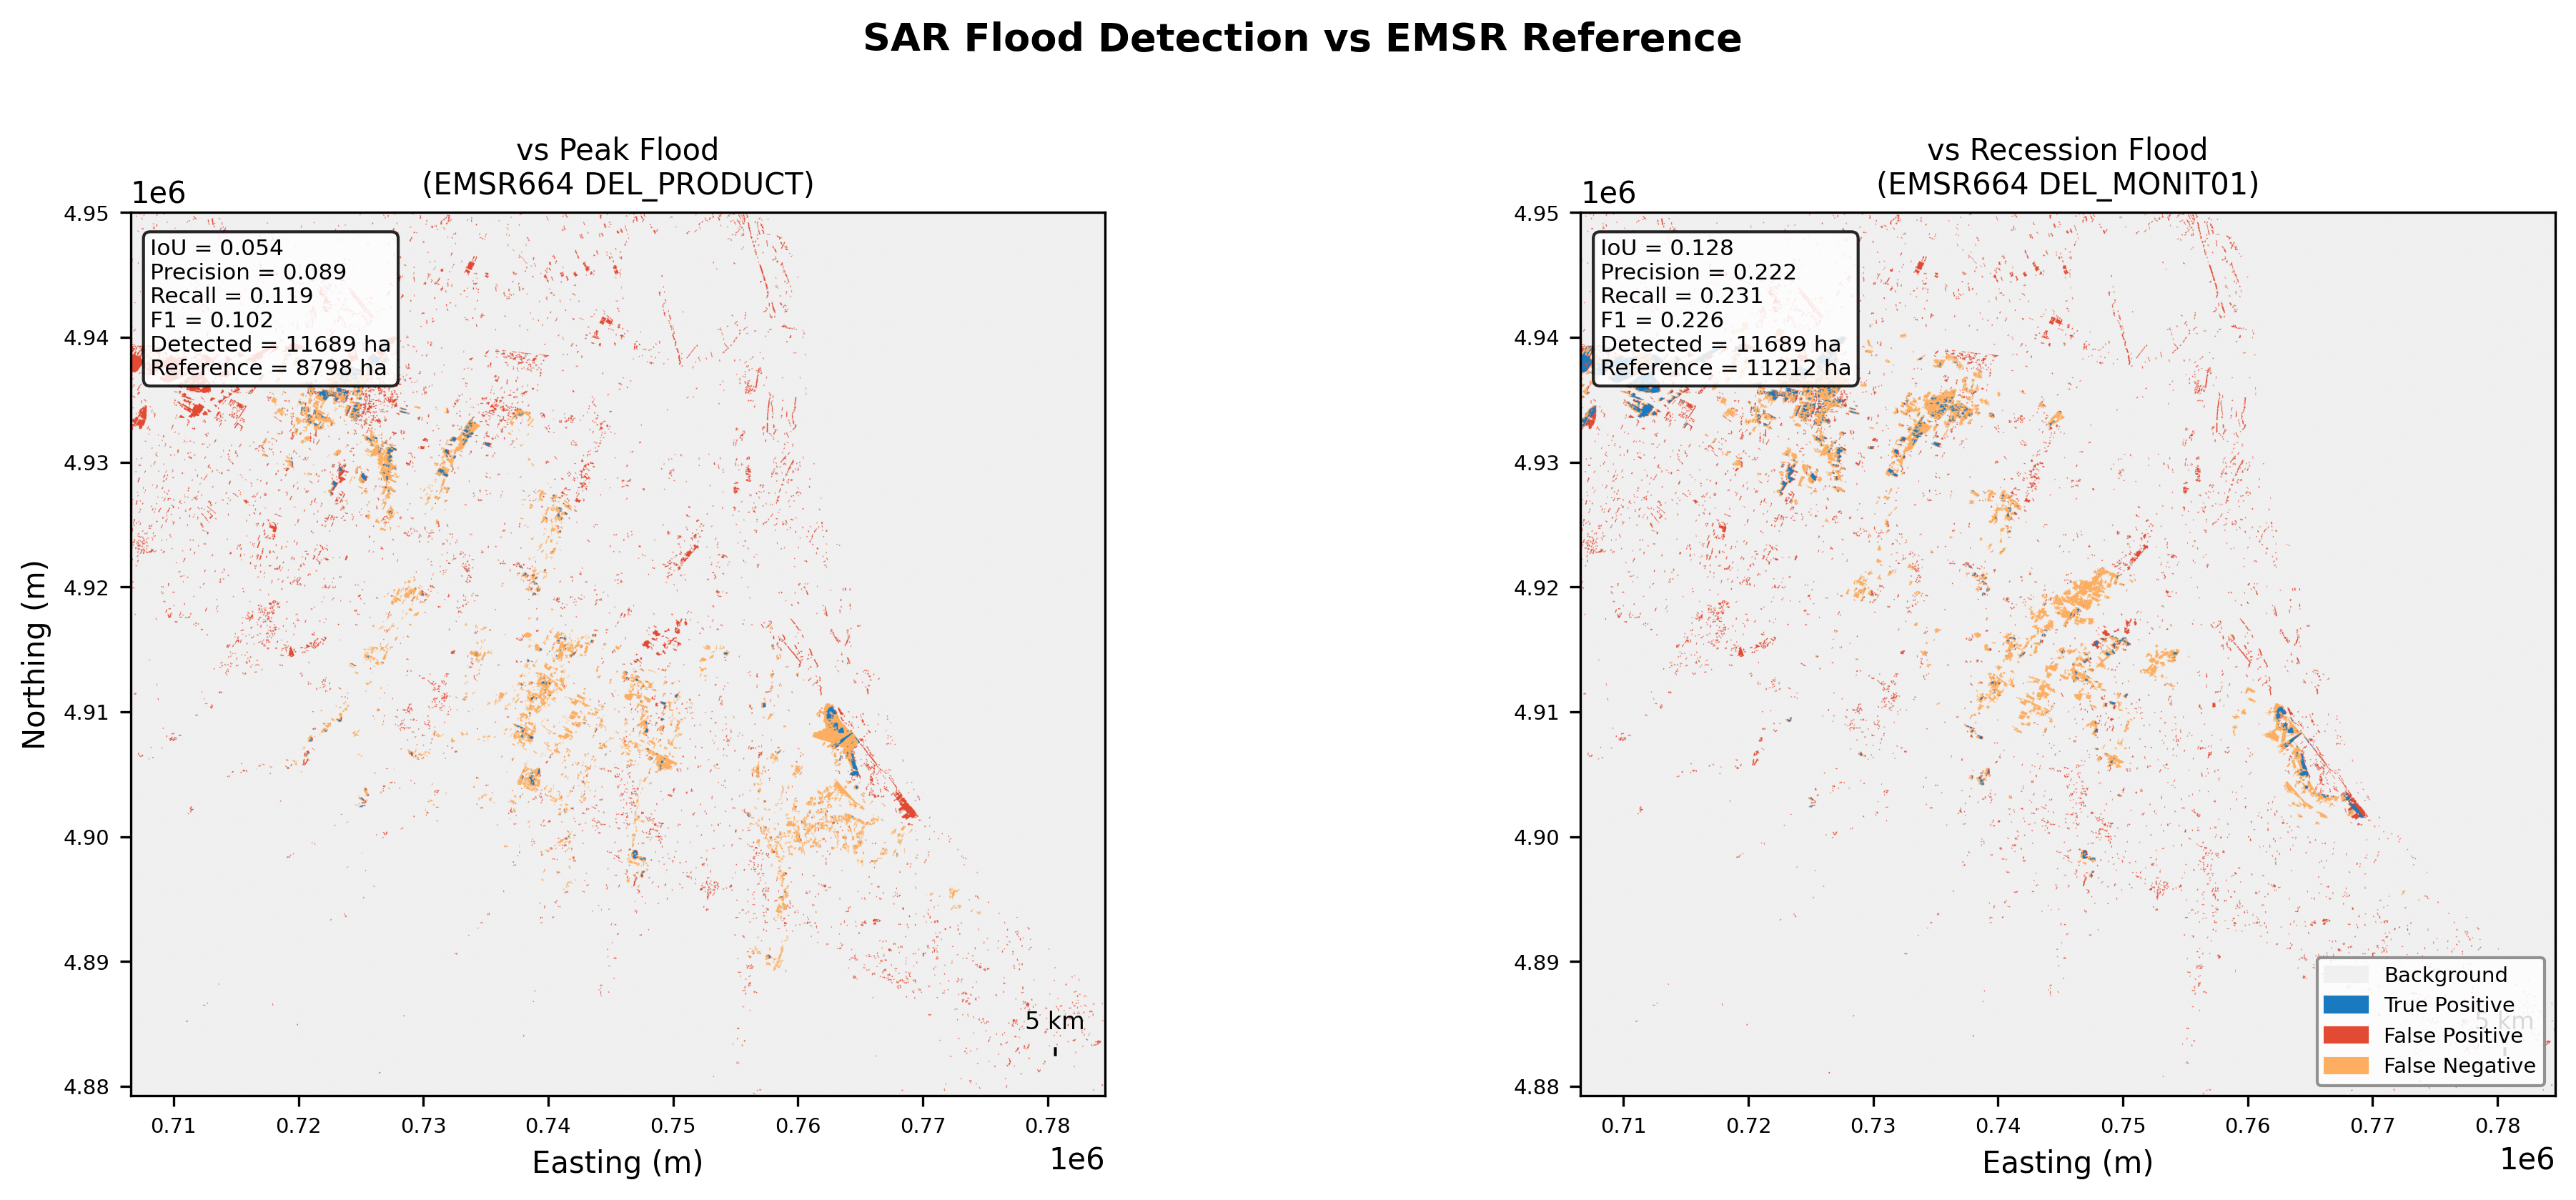
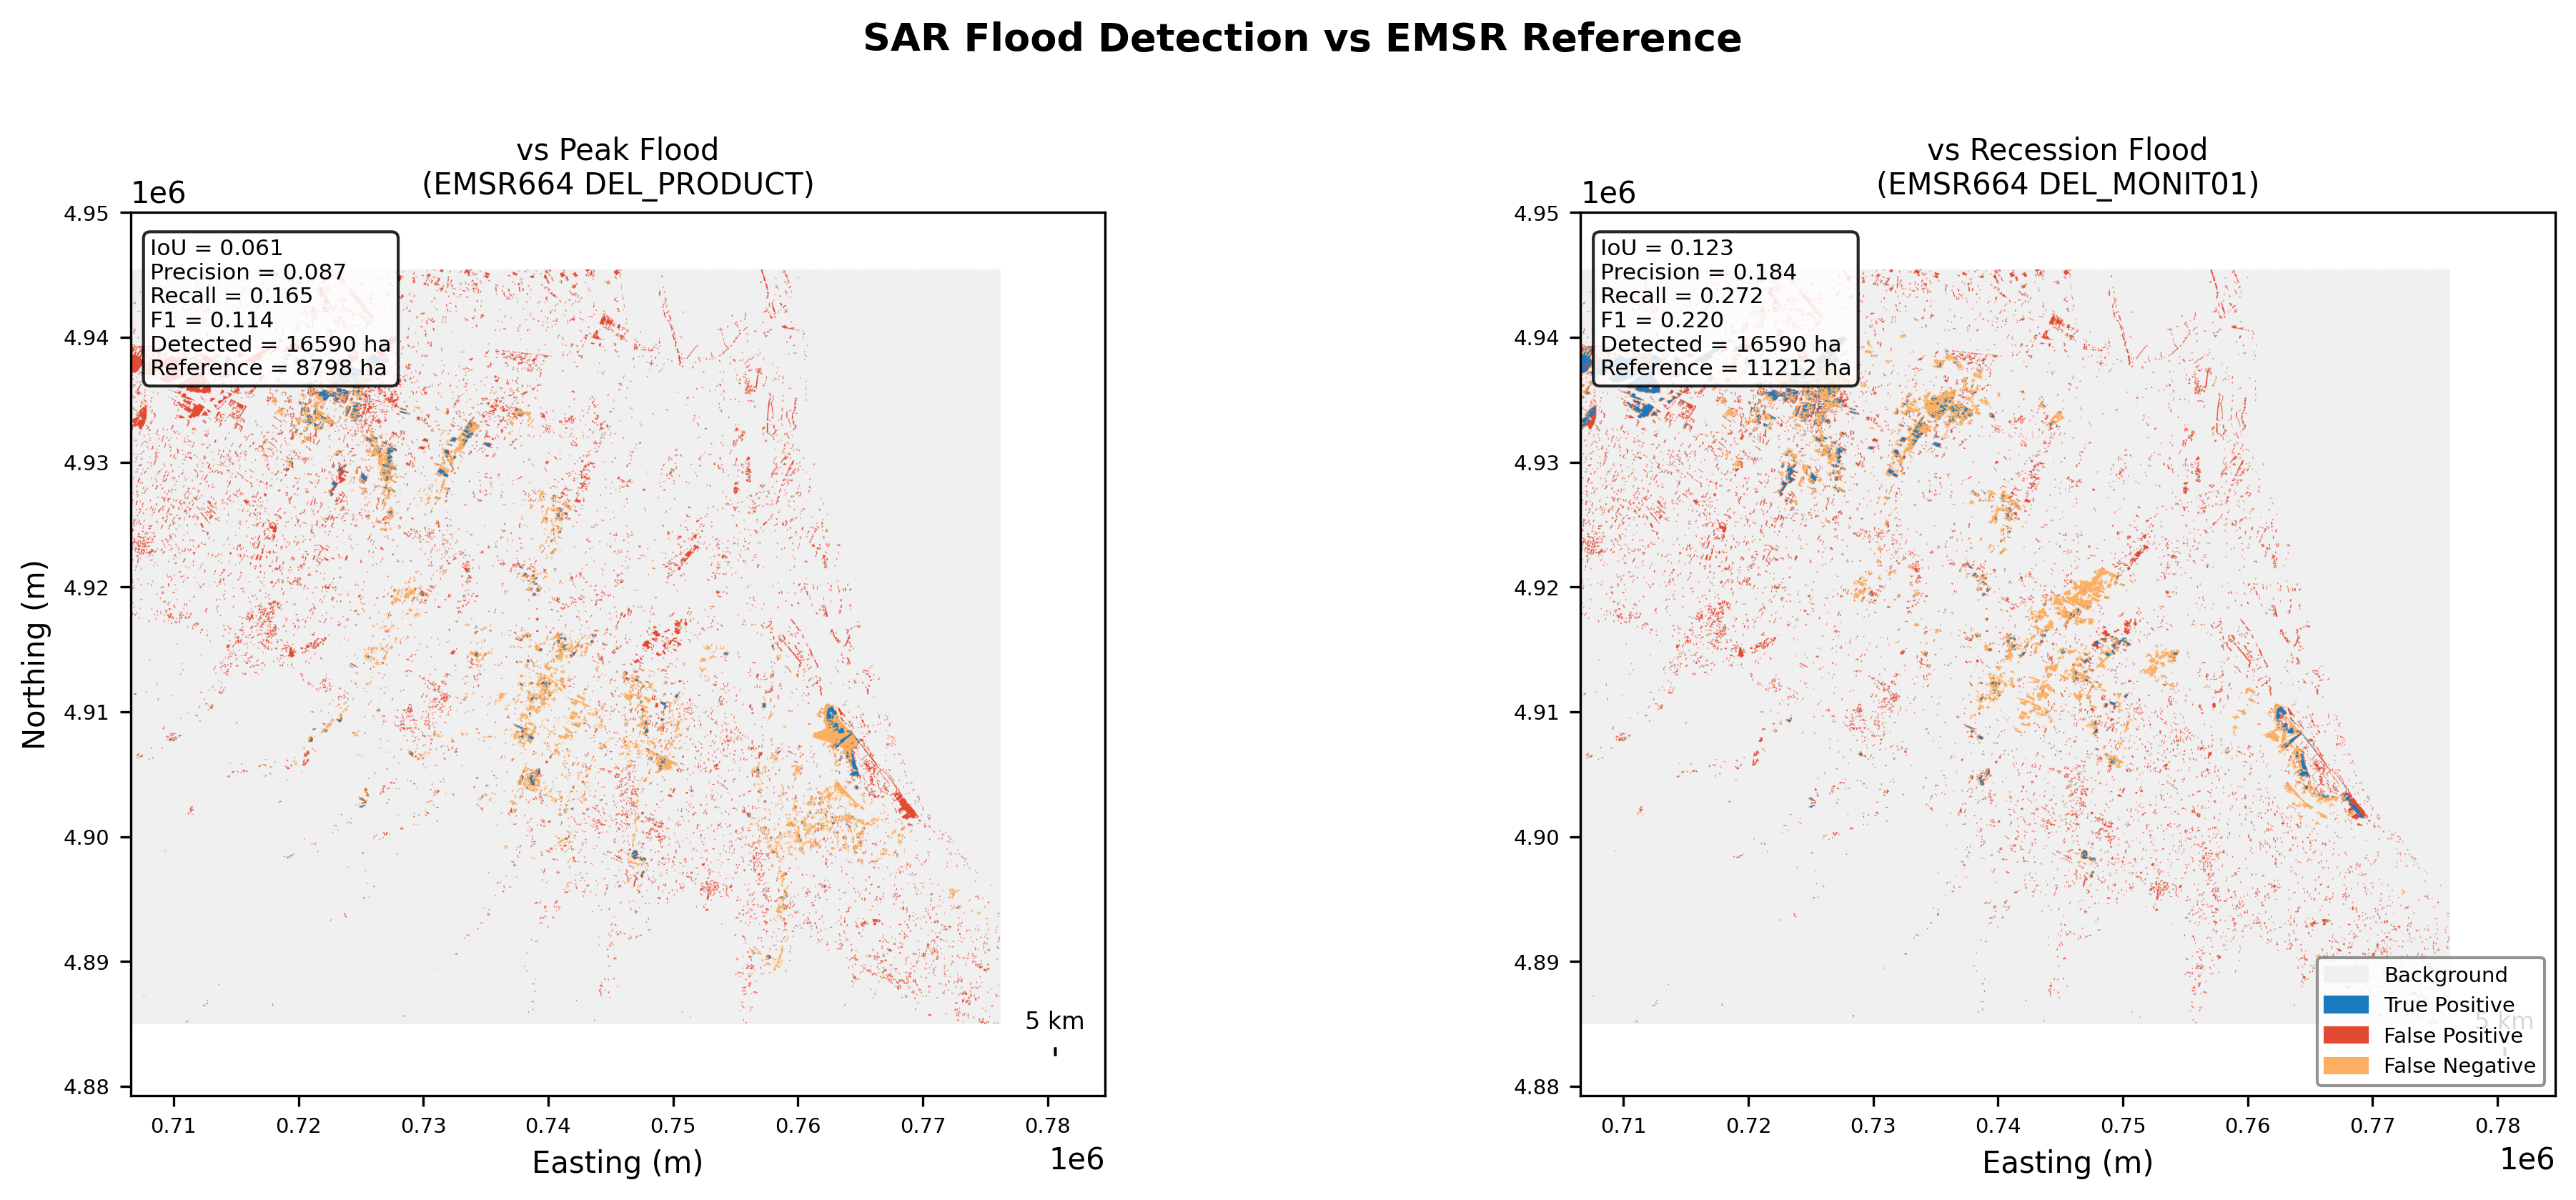
cropping down italy for more detailed study area

diff --git a/emilia_romagna/scripts/make_figures.py b/emilia_romagna/scripts/make_figures.py
@@ -169,15 +169,6 @@ def main():
         (axes[1], post_vv, post_ext, "Post-event", "22 May 2023"),
     ]:
         im = ax.imshow(data, cmap="gray", vmin=vmin, vmax=vmax, extent=ext, origin="upper")
-        # EMSR reference overlay
-        for geom in peak_gdf.geometry:
-            if geom.geom_type == "Polygon":
-                xs, ys = geom.exterior.xy
-                ax.plot(xs, ys, color="#FF4444", lw=0.5, alpha=0.8)
-            elif geom.geom_type == "MultiPolygon":
-                for p in geom.geoms:
-                    xs, ys = p.exterior.xy
-                    ax.plot(xs, ys, color="#FF4444", lw=0.5, alpha=0.8)
         ax.set_title(f"{title}\n{date}", fontsize=11)
         ax.set_xlabel("Easting (m)")
         ax.tick_params(labelsize=7)
@@ -188,11 +179,6 @@ def main():
     for ax in axes:
         ax.set_xlim(bounds_utm[0], bounds_utm[2])
         ax.set_ylim(bounds_utm[1], bounds_utm[3])
-
-    # Legend
-    patch = mpatches.Patch(edgecolor="#FF4444", facecolor="none", label="EMSR peak flood")
-    axes[1].legend(handles=[patch], loc="upper left", fontsize=7,
-                   framealpha=0.8, edgecolor="gray")
 
     add_scalebar(axes[1], post_t, length_km=10)
     plt.subplots_adjust(right=0.87, wspace=0.05, top=0.90, bottom=0.10, left=0.06)
@@ -213,14 +199,6 @@ def main():
     im = ax.imshow(chg_vv, cmap=cmap_div, vmin=-clim, vmax=clim,
                    extent=chg_ext, origin="upper")
 
-    # EMSR reference overlay
-    for geom in peak_gdf.geometry:
-        if geom.geom_type == "Polygon":
-            ax.plot(*geom.exterior.xy, color="lime", lw=0.8, alpha=0.9)
-        elif geom.geom_type == "MultiPolygon":
-            for p in geom.geoms:
-                ax.plot(*p.exterior.xy, color="lime", lw=0.8, alpha=0.9)
-
     ax.set_title("VV Backscatter Change (Post − Pre)\nEmilia-Romagna Floods, May 2023",
                  fontsize=12, fontweight="bold")
     ax.set_xlabel("Easting (m)")
@@ -230,11 +208,6 @@ def main():
 
     cbar = fig.colorbar(im, ax=ax, shrink=0.85)
     cbar.set_label("ΔVV (dB)  ← decrease  |  increase →", fontsize=9)
-
-    ref_patch = mpatches.Patch(edgecolor="lime", facecolor="none",
-                                label="EMSR peak flood reference")
-    ax.legend(handles=[ref_patch], loc="upper left", fontsize=8,
-              framealpha=0.8, edgecolor="gray")
     add_scalebar(ax, chg_t, length_km=10)
     plt.tight_layout()
     save_fig(fig, "fig02_change_map.png", OUT)

diff --git a/emilia_romagna/README.md b/emilia_romagna/README.md
@@ -31,7 +31,7 @@ Combined magnitude = √(ΔVV² + ΔVH²)
 
 **Masking**: JRC Global Surface Water ≥ 75% occurrence (permanent water excluded); SRTM slope > 5° (22% of scene excluded as steep terrain).
 
-**Threshold calibration**: grid search 0.1–15 dB (30 steps), maximising IoU against the EMSR664 peak reference. Optimal: **9.348 dB**.
+**Threshold calibration**: grid search 0.1–15 dB (30 steps), maximising IoU against the EMSR664 peak reference. Optimal: **7.807 dB**.
 
 ---
 
@@ -41,7 +41,7 @@ Combined magnitude = √(ΔVV² + ΔVH²)
 <img src="outputs/figures/fig01_backscatter_comparison.png" width="800">
 </p>
 
-*Figure 1: VV gamma-naught before and after the flood. EMSR664 peak reference in red.*
+*Figure 1: VV gamma-naught before and after the flood.*
 
 The pre/post visual difference is subtle — an early indicator that detection will be difficult. Three weeks of continuous rainfall had already saturated agricultural soils before the 22 May scene, compressing the apparent contrast between flooded and non-flooded areas.
 
@@ -53,7 +53,7 @@ The pre/post visual difference is subtle — an early indicator that detection w
 <img src="outputs/figures/fig02_change_map.png" width="700">
 </p>
 
-*Figure 2: VV log-ratio (ΔVV, dB). Blue = decrease, red = increase. EMSR664 reference in green.*
+*Figure 2: VV log-ratio (ΔVV, dB). Blue = decrease, red = increase.*
 
 The entire scene shows moderate backscatter decrease — not just the flood areas. Saturated agricultural soils produce a 0.5–3 dB VV decrease that is nearly indistinguishable from shallow flood water. Inside the EMSR664 reference the decrease is slightly stronger, but the mean separation is only **0.68 dB** — too small for clean thresholding.
 
@@ -81,8 +81,8 @@ False positives (red) spread across agricultural fields are wet soil misclassifi
 
 | Reference | IoU | Precision | Recall | F1 | Detected | Reference area |
 |---|---|---|---|---|---|---|
-| Peak flood (DEL_PRODUCT) | 0.054 | 0.089 | 0.119 | 0.102 | 11,689 ha | 8,798 ha |
-| **Recession (DEL_MONIT01)** | **0.128** | **0.222** | **0.231** | **0.226** | 11,689 ha | 11,212 ha |
+| Peak flood (DEL_PRODUCT) | 0.061 | 0.087 | 0.165 | 0.114 | 16,590 ha | 8,798 ha |
+| **Recession (DEL_MONIT01)** | **0.123** | **0.184** | **0.272** | **0.220** | 16,590 ha | 11,212 ha |
 
 ---
 
@@ -92,11 +92,11 @@ False positives (red) spread across agricultural fields are wet soil misclassifi
 <img src="outputs/figures/fig04_validation_metrics.png" width="800">
 </p>
 
-*Figure 4: IoU, precision, and recall vs threshold (left); final metrics at 9.348 dB (right).*
+*Figure 4: IoU, precision, and recall vs threshold (left); final metrics at 7.807 dB (right).*
 
-IoU peaks at 0.054 and the curve is broad and low across the full sweep — no threshold achieves clean separation. With only 0.68 dB signal separation, precision and recall cannot both be high simultaneously. The flat, low curve is diagnostic of overlapping pixel distributions rather than a tuning problem.
+IoU peaks at 0.061 and the curve is broad and low across the full sweep — no threshold achieves clean separation. With only 0.68 dB signal separation, precision and recall cannot both be high simultaneously. The flat, low curve is diagnostic of overlapping pixel distributions rather than a tuning problem.
 
-The higher recession IoU (0.128) confirms the hypothesis: persistent standing water after rainfall drains is more specularly distinct from background, making it easier to detect than the immediate flood peak.
+The higher recession IoU (0.123) confirms the hypothesis: persistent standing water after rainfall drains is more specularly distinct from background, making it easier to detect than the immediate flood peak.
 
 ---
 

diff --git a/README.md b/README.md
@@ -8,11 +8,11 @@ A Sentinel-1 SAR flood mapping pipeline applied to three contrasting flood event
 
 | Case Study | Event | Date | Best IoU | Status |
 |---|---|---|---|---|
-| [Emilia-Romagna](emilia_romagna/) | Italy — Faenza/Forlì floods | May 2023 | **0.128** (recession) | Complete |
+| [Emilia-Romagna](emilia_romagna/) | Italy — Faenza/Forlì floods | May 2023 | **0.123** (recession) | Complete |
 | [Wroclaw](wroclaw/) | Poland — Storm Boris | Sep 2024 | **0.029** (maximum extent) | Complete |
 | [Jacobabad](jacobabad/) | Pakistan — monsoon mega-flood | Jul–Aug 2022 | **0.370** (peak) | Complete |
 
-The three events span the full performance range for SAR change-detection flood mapping — from the physically inverted Wroclaw case (signal mechanism wrong, IoU 0.029) through Italy's soil moisture confound (IoU 0.054 peak / 0.128 recession) to Jacobabad's best-case arid open-water scenario (IoU 0.370).
+The three events span the full performance range for SAR change-detection flood mapping — from the physically inverted Wroclaw case (signal mechanism wrong, IoU 0.029) through Italy's soil moisture confound (IoU 0.061 peak / 0.123 recession) to Jacobabad's best-case arid open-water scenario (IoU 0.370).
 
 ---
 
@@ -66,7 +66,7 @@ Masking applied before classification:
 
 | Case Study | Mode | Threshold | Best IoU | Precision | Recall | F1 | Detected | Reference |
 |---|---|---|---|---|---|---|---|---|
-| Emilia-Romagna | combined_magnitude | 9.348 dB | 0.128 (recession) | 0.222 | 0.231 | 0.226 | 11,689 ha | 11,212 ha |
+| Emilia-Romagna | combined_magnitude | 7.807 dB | 0.123 (recession) | 0.184 | 0.272 | 0.220 | 16,590 ha | 11,212 ha |
 | Wroclaw | combined_magnitude | 2.931 dB | 0.029 (maximum) | 0.029 | 0.810 | 0.056 | 534,863 ha | 20,161 ha |
 | Jacobabad | directional_decrease | 7.807 dB | 0.370 (peak) | 0.414 | 0.777 | 0.540 | 94,350 ha | 50,185 ha |
 
@@ -77,10 +77,10 @@ Performance is fundamentally determined by how physically distinct the flood SAR
 | Case | Pre-event soil | Mean ΔVV inside flood | Mean ΔVV outside | Separation | IoU |
 |---|---|---|---|---|---|
 | Jacobabad | Arid (dry pre-monsoon) | −9.45 dB | −4.18 dB | **−5.27 dB** | 0.370 |
-| Emilia-Romagna | Wet (preceding rain) | −1.36 dB | −0.68 dB | **0.68 dB** | 0.054 |
+| Emilia-Romagna | Wet (preceding rain) | −1.36 dB | −0.68 dB | **0.68 dB** | 0.061 |
 | Wroclaw | Very wet (Aug 2024) | **+1.17 dB** (double-bounce) | +1.57 dB (agriculture) | **−0.40 dB** | 0.029 |
 
-Jacobabad confirms the hypothesis: arid pre-event conditions with correct-direction specular signal produce 7–13× higher IoU than the European cases (0.370 vs 0.054 for Italy peak, vs 0.029 for Wroclaw). The −5.27 dB separation is an order of magnitude stronger than either European case. Wroclaw is a degenerate case — the flood inundated standing September crops, producing flooded-vegetation double-bounce (VV increases), while agricultural harvest adds an even larger change signal across the background.
+Jacobabad confirms the hypothesis: arid pre-event conditions with correct-direction specular signal produce 6–13× higher IoU than the European cases (0.370 vs 0.061 for Italy peak, vs 0.029 for Wroclaw). The −5.27 dB separation is an order of magnitude stronger than either European case. Wroclaw is a degenerate case — the flood inundated standing September crops, producing flooded-vegetation double-bounce (VV increases), while agricultural harvest adds an even larger change signal across the background.
 
 ---
 